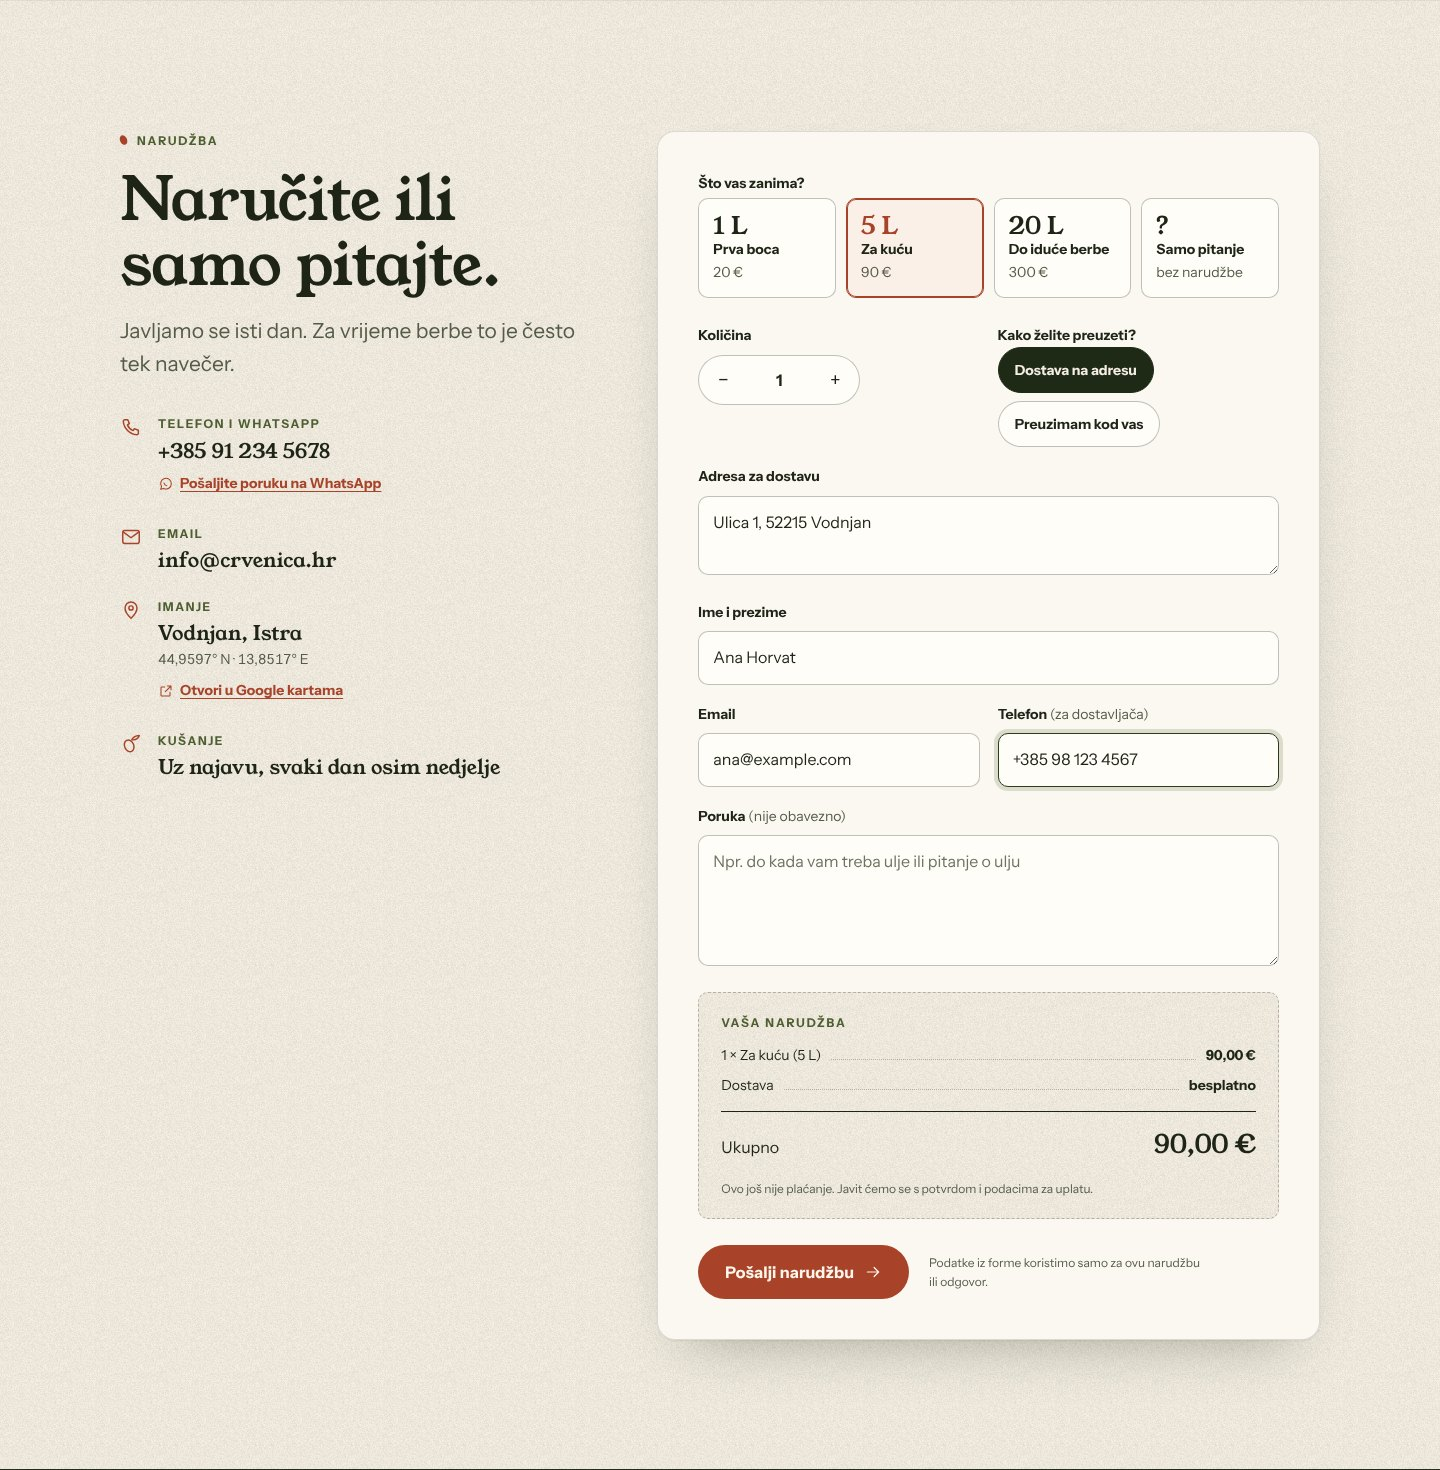
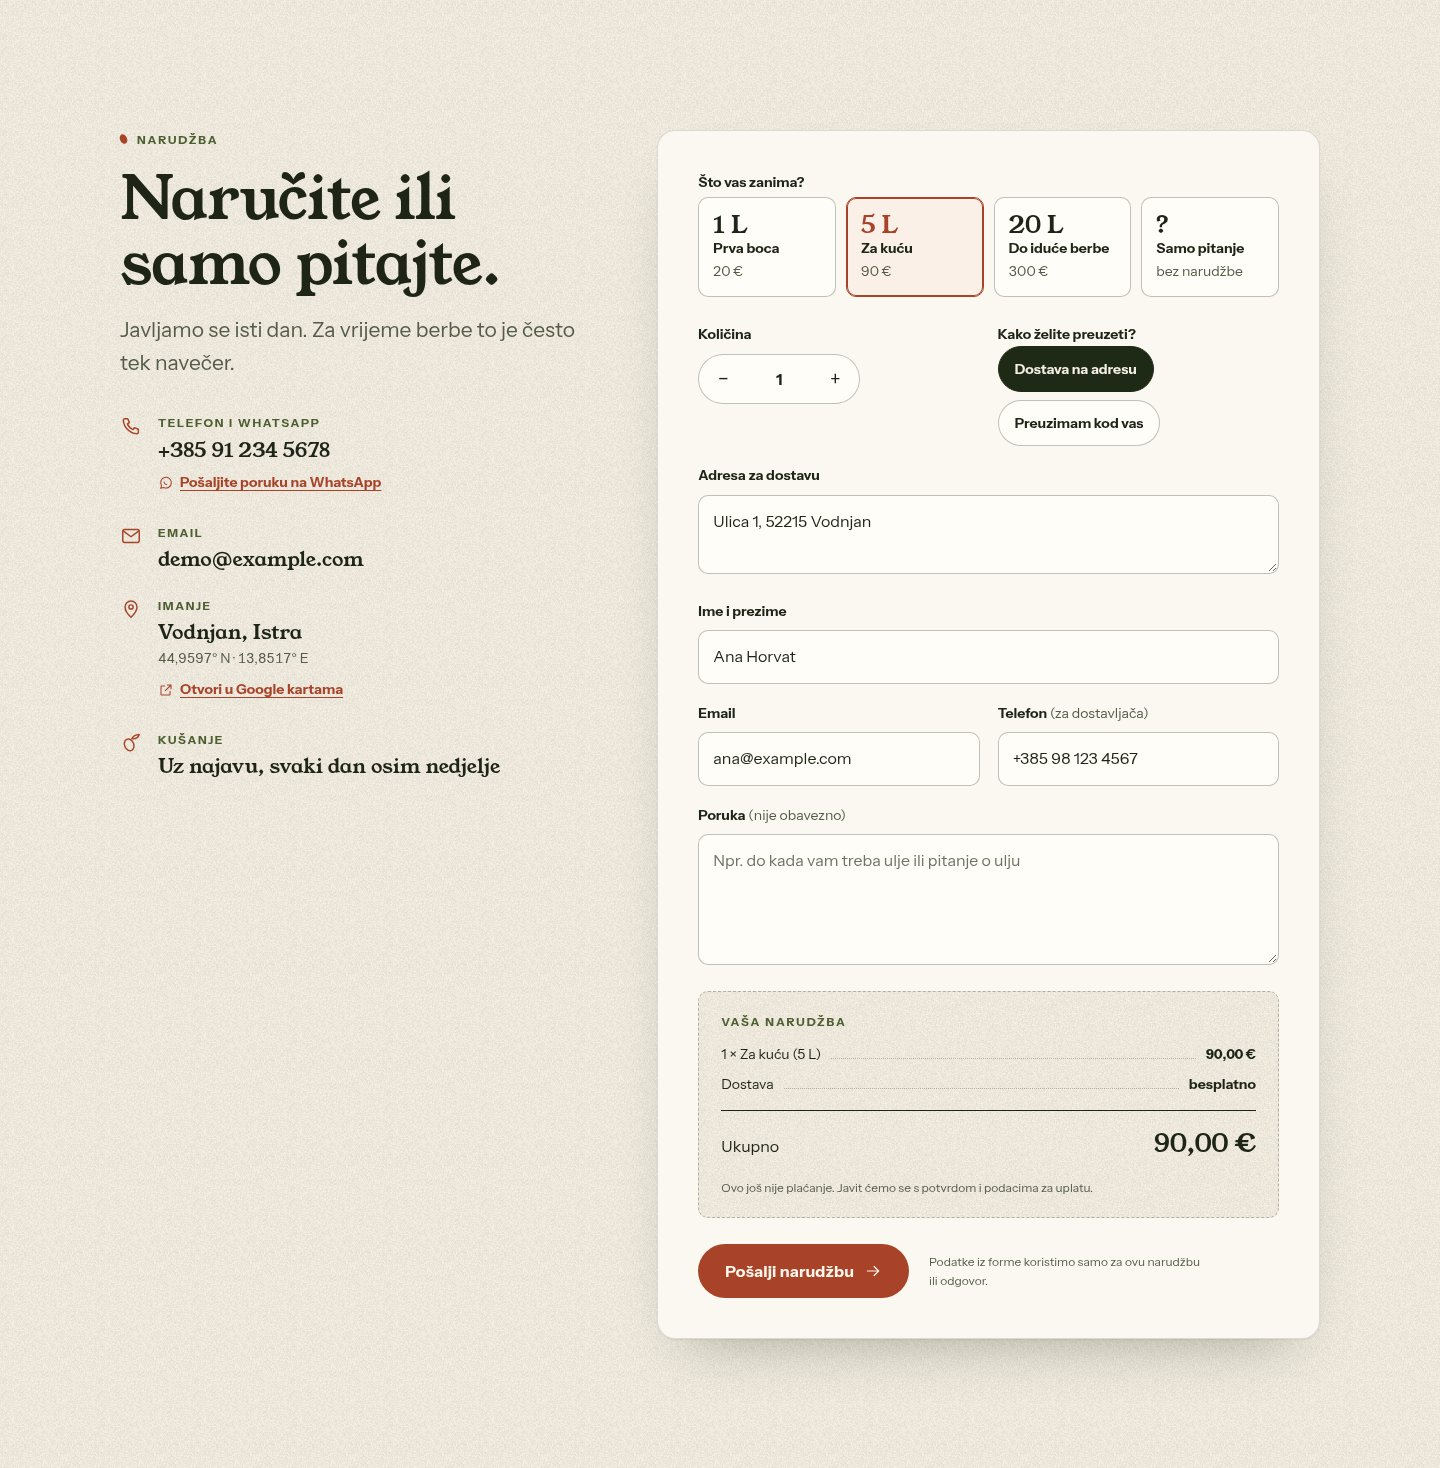
README: correct the cold-pressing legal note (EU 2022/2104); refresh order screenshot; remove unused menu-mobile.jpg

diff --git a/README.hr.md b/README.hr.md
@@ -113,7 +113,7 @@ Kad stranica dobije vlastitu domenu, zamijeni `https://mpajkov.github.io/crvenic
 ## Prije objave (pravila EU-a za prodavače maslinovog ulja)
 
 - **"Ekološko", "bio"** smije pisati samo uz certifikat (EU uredba 2018/848). Stranica zato piše "bez prskanja", a u pitanjima objašnjava da certifikata nema.
-- **"Hladno prešano"** smije pisati samo ako je ulje dobiveno ispod 27 °C (EU uredba 29/2012). Službeni izraz "prvo hladno prešanje" vrijedi za tradicionalnu hidrauličnu prešu; ako uljara radi s centrifugom, zakonski izraz je "hladno cijeđeno".
+- **„Prvo hladno prešanje”** smije se navesti samo za ulje dobiveno pri temperaturi nižoj od 27 °C prvim mehaničkim prešanjem na tradicionalnoj hidrauličkoj preši, a **„hladni postupak”** samo za ulje dobiveno pri temperaturi nižoj od 27 °C procjeđivanjem ili centrifugiranjem (Delegirana uredba (EU) 2022/2104, čl. 10. t. (a) i (b)). Većina današnjih uljara radi s centrifugom, pa tada na stranici treba pisati „hladni postupak”, a ne „hladno prešano”.
 - **Zdravstvene tvrdnje** o polifenolima trebaju nalaz koji ih dokazuje (EU uredba 432/2012), pa ih stranica nema.
 - Tvrdnja "10 puta najbolja maslinarska regija" odnosi se na Istru kao regiju (vodič Flos Olei) i ima poveznicu na izvor. Broj ažuriraj kad izađe novo izdanje.
 

diff --git a/README.md b/README.md
@@ -113,7 +113,7 @@ When the site moves to its own domain, replace `https://mpajkov.github.io/crveni
 ## Before going live (EU rules for olive-oil sellers)
 
 - **"Organic", "bio"** may only appear with a certificate (EU Regulation 2018/848). The page says "no spraying" and explains in the FAQ that there is no certificate.
-- **"Cold pressed"** may only be used if the oil was obtained below 27 °C (EU Regulation 29/2012). The official term "first cold pressing" is for traditional hydraulic presses; if the mill uses a centrifuge, the legal term is "cold extraction".
+- **"First cold pressing"** may only be used for oil obtained below 27 °C by a first mechanical pressing on a traditional hydraulic press, and **"cold extraction"** only for oil obtained below 27 °C by percolation or centrifugation (Delegated Regulation (EU) 2022/2104, Article 10(a) and (b)). Most modern mills use a centrifuge, in which case the page should say "cold extraction", not "cold pressed".
 - **Health claims** about polyphenols need the lab result that proves them (EU Regulation 432/2012), so the page makes none.
 - The "10 times best olive-growing region" line refers to Istria as a region (Flos Olei guide) and links to its source. Update the number when a new edition comes out.
 
